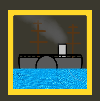
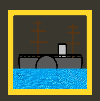
Added ship crews

Changed region(s): [[0.24, 0.1485, 0.66, 0.4752]]

diff --git a/modules/vehicles.py b/modules/vehicles.py
@@ -5,48 +5,76 @@ from . import main_loop_tools
 from .mobs import mob
 from .buttons import button
 
-
-class vehicle(mob):
-    def __init__(self, coordinates, grids, image_id, name, modes, global_manager):
+class vehicle(mob): #maybe reduce movement points of both vehicle and crew to the lower of the two
+    def __init__(self, coordinates, grids, image_dict, name, modes, crew, global_manager):
         self.contained_mobs = []
-        super().__init__(coordinates, grids, image_id, name, modes, global_manager)
+        self.vehicle_type = 'vehicle'
+        self.has_crew = False
+        super().__init__(coordinates, grids, image_dict['default'], name, modes, global_manager)
+        self.image_dict = image_dict #should have default and uncrewed
         self.is_vehicle = True
-        self.can_travel = True
+        self.crew = crew
+        if self.crew == 'none':
+            self.has_crew = False
+            self.set_image('uncrewed')
+        else:
+            self.has_crew = True
+            self.set_image('uncrewed')
 
+    def can_move(self, x_change, y_change):
+        if self.has_crew:
+            return(super().can_move(x_change, y_change))
+        else:
+            text_tools.print_to_screen("A " + self.vehicle_type + " can not move without crew.", self.global_manager)
+            return(False)
+    
     def update_tooltip(self):
         tooltip_list = ["Name: " + self.name]
+        if self.has_crew:
+            tooltip_list.append("Crew: " + self.crew.name)
+        else:
+            tooltip_list.append("Crew: none")
+            tooltip_list.append("A " + self.vehicle_type + " can not move or take passengers or cargo without crew")
+            
         if len(self.contained_mobs) > 0:
             tooltip_list.append("Passengers: ")
             for current_mob in self.contained_mobs:
                 tooltip_list.append('    ' + current_mob.name)
         else:
             tooltip_list.append("No passengers")
+            
         tooltip_list.append("Movement points: " + str(self.movement_points) + "/" + str(self.max_movement_points))
         self.set_tooltip(tooltip_list)
 
     def go_to_grid(self, new_grid, new_coordinates):
         super().go_to_grid(new_grid, new_coordinates)
-        for current_mob in self.contained_mobs:
+        for current_mob in (self.contained_mobs + [self.crew]): #make list of all mobs in vehicle
             current_mob.go_to_grid(new_grid, new_coordinates)
-            
             current_mob.in_vehicle = True
             current_mob.selected = False
             current_mob.hide_images()
-            #current_mob.in_group = True
-            #current_mob.join_group() #remove this
-            #current_mob.hide_images() #hides images self.worker.hide_images()#
-            #current_mob.in_vehicle = True
 
     def disembark(self):
         for current_mob in self.contained_mobs:
             current_mob.disembark_vehicle(self)
+        first_mob = self.contained_mobs[0]
         self.contained_mobs = []
+        self.global_manager.get('minimap_grid').calibrate(self.x, self.y)
+        first_mob.select()
+        #actor_utility.calibrate_actor_info_display(self.global_manager, self.global_manager.get('mob_info_display_list'), first_mob)
 
-class ship(vehicle):
-    def __init__(self, coordinates, grids, image_id, name, modes, global_manager):
-        super().__init__(coordinates, grids, image_id, name, modes, global_manager)
+class ship(vehicle): #prevent movement when there are mobs in this tile that are not in a ship
+    def __init__(self, coordinates, grids, image_dict, name, modes, crew, global_manager):
+        super().__init__(coordinates, grids, image_dict, name, modes, crew, global_manager)
+        self.vehicle_type = 'ship'
         self.can_swim = True
         self.can_walk = False
+
+    def can_travel(self):
+        if self.has_crew:
+            return(True)
+        else:
+            return(False)
 
 class embark_vehicle_button(button):
     def __init__(self, coordinates, width, height, color, keybind_id, modes, image_id, global_manager):
@@ -102,6 +130,66 @@ class disembark_vehicle_button(button):
                 if len(selected_list) == 1 and selected_list[0].is_vehicle and len(selected_list[0].contained_mobs) > 0:
                     selected_list[0].disembark()
                 else:
-                    text_tools.print_to_screen("You must have a vehicle with passengers selected to disembark passengers.", self.global_manager)
+                    text_tools.print_to_screen("You must select a vehicle with passengers to disembark passengers.", self.global_manager)
             else:
                 text_tools.print_to_screen("You are busy and can not disembark from a vehicle.", self.global_manager)
+
+class crew_vehicle_button(button):
+    def __init__(self, coordinates, width, height, color, keybind_id, modes, image_id, global_manager):
+        super().__init__(coordinates, width, height, color, 'crew', keybind_id, modes, image_id, global_manager)
+        
+    def can_show(self):
+        if actor_utility.can_crew_vehicle(self.global_manager):
+            return(super().can_show())
+        else:
+            return(False)
+
+    def on_click(self):
+        if self.can_show():
+            self.showing_outline = True
+            if main_loop_tools.action_possible(self.global_manager):    
+                selected_list = actor_utility.get_selected_list(self.global_manager)
+                if len(selected_list) == 2:
+                    vehicle = 'none'
+                    crew = 'none'
+                    if selected_list[0].is_vehicle and selected_list[1].is_worker:
+                        vehicle = selected_list[0]
+                        crew = selected_list[1]
+                    elif selected_list[1].is_vehicle and selected_list[0].is_worker:
+                        vehicle = selected_list[1]
+                        crew = selected_list[0]
+                    if (not (vehicle == 'none' or crew == 'none')) and (not vehicle.has_crew): #if vehicle and rider selected
+                        if vehicle.x == crew.x and vehicle.y == crew.y: #ensure that this doesn't work across grids
+                            crew.crew_vehicle(vehicle)
+                        else:
+                            text_tools.print_to_screen("You must select a worker in the same tile as an uncrewed vehicle to crew the vehicle.", self.global_manager)
+                    else:
+                        text_tools.print_to_screen("You must select a worker in the same tile as an uncrewed vehicle to crew the vehicle.", self.global_manager)
+                else:
+                    text_tools.print_to_screen("You must select a worker in the same tile as an uncrewed vehicle to crew the vehicle.", self.global_manager)
+            else:
+                text_tools.print_to_screen("You are busy and can not crew a vehicle.", self.global_manager)
+
+class uncrew_vehicle_button(button): #later only allow uncrewing in a port
+    def __init__(self, coordinates, width, height, color, keybind_id, modes, image_id, global_manager):
+        super().__init__(coordinates, width, height, color, 'uncrew', keybind_id, modes, image_id, global_manager)
+        
+    def can_show(self):
+        if actor_utility.can_uncrew_vehicle(self.global_manager):
+            return(super().can_show())
+        else:
+            return(False)
+
+    def on_click(self):
+        if self.can_show():
+            self.showing_outline = True
+            if main_loop_tools.action_possible(self.global_manager):         
+                selected_list = actor_utility.get_selected_list(self.global_manager)
+                if len(selected_list) == 1 and selected_list[0].is_vehicle and len(selected_list[0].contained_mobs) == 0 and selected_list[0].has_crew:
+                    vehicle = selected_list[0]
+                    crew = vehicle.crew
+                    crew.uncrew_vehicle(vehicle)
+                else:
+                    text_tools.print_to_screen("You must select a crewed vehicle with no passengers to remove the crew.", self.global_manager)
+            else:
+                text_tools.print_to_screen("You are busy and can not remove a vehicle's crew.", self.global_manager)

diff --git a/modules/mobs.py b/modules/mobs.py
@@ -25,6 +25,7 @@ class mob(actor):
         self.selected = False
         self.in_group = False
         self.in_vehicle = False
+        self.actor_type = 'mob'
         super().__init__(coordinates, grids, modes, global_manager)
         self.image_dict = {'default': image_id}
         self.selection_outline_color = 'bright green'
@@ -36,14 +37,19 @@ class mob(actor):
         self.can_explore = False #if can attempt to explore unexplored areas
         self.can_swim = False #if can enter water areas without ships in them
         self.can_walk = True #if can enter land areas
-        self.can_travel = False #if can go between Europe, Africa, etc.
         self.is_vehicle = False
+        self.is_worker = False
+        self.is_officer = False
+        self.is_group = False
         self.max_movement_points = 1
         self.movement_cost = 1
         self.reset_movement_points()
         self.update_tooltip()
         self.select()
         actor_utility.calibrate_actor_info_display(self.global_manager, self.global_manager.get('tile_info_display_list'), self.images[0].current_cell.tile)
+
+    def can_travel(self): #if can move between Europe, Africa, etc.
+        return(False) #different for subclasses
 
     def change_movement_points(self, change):
         self.movement_points += change
@@ -265,6 +271,7 @@ class mob(actor):
         self.selected = False
         self.hide_images()
         vehicle.contained_mobs.append(self)
+        actor_utility.calibrate_actor_info_display(self.global_manager, self.global_manager.get('mob_info_display_list'), vehicle)
 
     def disembark_vehicle(self, vehicle):
         self.in_vehicle = False
@@ -272,6 +279,8 @@ class mob(actor):
         self.y = vehicle.y
         for current_image in self.images:
             current_image.add_to_cell()
+        self.select()
+        actor_utility.calibrate_actor_info_display(self.global_manager, self.global_manager.get('tile_info_display_list'), self.images[0].current_cell.tile)
         #vehicle.contained_mobs = utility.remove_from_list(vehicle.contained_mobs, self)
 
 class worker(mob):
@@ -285,6 +294,7 @@ class worker(mob):
         '''
         super().__init__(coordinates, grids, image_id, name, modes, global_manager)
         global_manager.get('worker_list').append(self)
+        self.is_worker = True
 
     def can_show_tooltip(self):
         '''
@@ -297,6 +307,27 @@ class worker(mob):
             return(super().can_show_tooltip())
         else:
             return(False)
+
+    def crew_vehicle(self, vehicle):
+        self.in_vehicle = True
+        self.selected = False
+        self.hide_images()
+        vehicle.crew = self
+        vehicle.has_crew = True
+        vehicle.set_image('crewed')
+        actor_utility.calibrate_actor_info_display(self.global_manager, self.global_manager.get('mob_info_display_list'), vehicle)
+
+    def uncrew_vehicle(self, vehicle):
+        self.in_vehicle = False
+        self.x = vehicle.x
+        self.y = vehicle.y
+        for current_image in self.images:
+            current_image.add_to_cell()
+        vehicle.crew = 'none'
+        vehicle.has_crew = False
+        vehicle.set_image('uncrewed')
+        self.select()
+        actor_utility.calibrate_actor_info_display(self.global_manager, self.global_manager.get('tile_info_display_list'), self.images[0].current_cell.tile)
 
     def join_group(self):
         '''
@@ -347,6 +378,7 @@ class officer(mob):
         global_manager.get('officer_list').append(self)
         self.veteran = False
         self.veteran_icons = []
+        self.is_officer = True
         self.officer_type = 'default'
 
     def go_to_grid(self, new_grid, new_coordinates):
@@ -416,6 +448,8 @@ class officer(mob):
         self.update_veteran_icons() #not in superclass
         for current_image in self.images:
             current_image.add_to_cell()
+        self.select()
+        actor_utility.calibrate_actor_info_display(self.global_manager, self.global_manager.get('tile_info_display_list'), self.images[0].current_cell.tile)
 
     def remove(self):
         '''

diff --git a/modules/actor_utility.py b/modules/actor_utility.py
@@ -55,7 +55,8 @@ def can_split(global_manager):
 def can_embark_vehicle(global_manager): #if 1 vehicle and 1 non-vehicle selected
     selected_list = get_selected_list(global_manager)
     if len(selected_list) == 2:
-        if (selected_list[0].is_vehicle and not selected_list[1].is_vehicle) or ((not selected_list[0].is_vehicle) and selected_list[1].is_vehicle): #1 of each
+        if (selected_list[0].is_vehicle and selected_list[0].has_crew and not selected_list[1].is_vehicle) or ((not selected_list[0].is_vehicle) and selected_list[1].is_vehicle and selected_list[1].has_crew):
+            #1 of each, vehicle must have crew
             if(selected_list[0].x == selected_list[1].x and selected_list[0].y == selected_list[1].y and selected_list[0].grids[0] in selected_list[1].grids): #if on same coordinates on same grid
                 return(True) #later check to see if vehicle has room
     return(False)
@@ -67,6 +68,23 @@ def can_disembark_vehicle(global_manager): #if 1 vehicle with any contents is se
             if len(selected_list[0].contained_mobs) > 0: #or if any commodities carried
                 return(True)
     return(False)
+
+def can_crew_vehicle(global_manager):
+    selected_list = get_selected_list(global_manager)
+    if len(selected_list) == 2:
+        if (selected_list[0].is_vehicle and not selected_list[0].has_crew and selected_list[1].is_worker) or (selected_list[0].is_worker and selected_list[1].is_vehicle and not selected_list[1].has_crew):
+            #1 of each, vehicle must not have crew
+            if(selected_list[0].x == selected_list[1].x and selected_list[0].y == selected_list[1].y and selected_list[0].grids[0] in selected_list[1].grids): #if on same coordinates on same grid
+                return(True) #later check to see if vehicle has room
+    return(False)
+
+def can_uncrew_vehicle(global_manager):
+    selected_list = get_selected_list(global_manager)
+    if len(selected_list) == 1:
+        if selected_list[0].is_vehicle:
+            if selected_list[0].has_crew and len(selected_list[0].contained_mobs) == 0: #crew can only leave if has crew and no passengers
+                return(True)
+    return(False) 
     
 def get_selected_list(global_manager):
     '''

diff --git a/modules/buttons.py b/modules/buttons.py
@@ -81,8 +81,12 @@ class button():
             self.set_tooltip(["Merges a worker and an officer in the same tile to form a group with a type based on that of the officer.", "Requires that only an officer is selected in the same tile as a worker."])
         elif self.button_type == 'split':
             self.set_tooltip(["Splits a group into a separate worker and officer.", "Requires that only a group is selected."])
+        elif self.button_type == 'crew':
+            self.set_tooltip(["Orders a worker to crew a vehicle, allowing the vehicle to move and take passengers and cargo. Requires that only a worker and an uncrewed vehicle are selected."])
+        elif self.button_type == 'uncrew':
+            self.set_tooltip(["Orders a vehicle's crew to leave the vehicle, allowing the worker to act independently. Requires that only a crewed vehicle is selected."])
         elif self.button_type == 'embark':
-            self.set_tooltip(["Orders a unit to embark a vehicle in the same tile.", "Requires that only a unit and vehicle are selected."])
+            self.set_tooltip(["Orders a unit to embark a vehicle in the same tile.", "Requires that only a unit and vehicle are selected and that the vehicle is crewed."])
         elif self.button_type == 'disembark':
             self.set_tooltip(["Orders all units in a vehicle to disembark.", "Requires that a vehicle containing at least 1 unit is selected."]) 
         elif self.button_type == 'pick up commodity':
@@ -612,7 +616,7 @@ class switch_grid_button(button):
             return(False)
         elif selected_list[0].grids[0] == self.destination_grid: #do not show if mob is in destination grid already
             return(False)
-        elif not selected_list[0].can_travel: #only ships can move between grids
+        elif not selected_list[0].can_travel(): #only ships can move between grids
             return(False)
         else:
             return(super().can_show()) #if nothing preventing being shown, use conditions of superclass

diff --git a/modules/grids.py b/modules/grids.py
@@ -426,13 +426,15 @@ class mini_grid(grid):
                 current_cell.set_resource('none')
         self.Rect = pygame.Rect(self.origin_x, self.origin_y - self.pixel_height, self.pixel_width, self.pixel_height)
         for current_mob in self.global_manager.get('mob_list'):
-            if not ((current_mob in self.global_manager.get('officer_list') or current_mob in self.global_manager.get('worker_list')) and current_mob.in_group):
+            if not current_mob.in_group: #if not ((current_mob in self.global_manager.get('officer_list') or current_mob in self.global_manager.get('worker_list')) and current_mob.in_group):
                 for current_image in current_mob.images:
                     if current_image.grid == self:
                         current_image.add_to_cell()
         for current_officer in self.global_manager.get('officer_list'):
             if not current_officer.in_group:
                 current_officer.update_veteran_icons()
+        for current_group in self.global_manager.get('officer_list'):
+            current_group.update_veteran_icons()
 
     def get_main_grid_coordinates(self, mini_x, mini_y):
         '''

diff --git a/Scramble_for_Africa.py b/Scramble_for_Africa.py
@@ -278,6 +278,10 @@ embark_vehicle_button = vehicles.embark_vehicle_button(group_button_coordinates,
 
 disembark_vehicle_button = vehicles.disembark_vehicle_button(group_button_coordinates, group_button_width, group_button_height, 'blue', pygame.K_n, ['strategic', 'europe'], 'misc/disembark_vehicle_button.png', global_manager)
 
+crew_vehicle_button = vehicles.crew_vehicle_button(group_button_coordinates, group_button_width, group_button_height, 'blue', pygame.K_b, ['strategic', 'europe'], 'misc/embark_vehicle_button.png', global_manager)
+
+uncrew_vehicle_button = vehicles.uncrew_vehicle_button(group_button_coordinates, group_button_width, group_button_height, 'blue', pygame.K_v, ['strategic', 'europe'], 'misc/disembark_vehicle_button.png', global_manager)
+
 #mob background image
 mob_free_image_background = images.free_image('misc/mob_background.png', scaling.scale_coordinates(0, global_manager.get('default_display_height') - 245, global_manager), scaling.scale_width(125, global_manager),
                                               scaling.scale_height(125, global_manager), ['strategic', 'europe'], global_manager)

diff --git a/modules/actors.py b/modules/actors.py
@@ -30,6 +30,17 @@ class actor():
         if self.can_hold_commodities:
             self.inventory_setup()
 
+    def set_image(self, new_image):
+        for current_image in self.images:
+            current_image.set_image(new_image)
+        self.image_dict['default'] = self.image_dict[new_image]
+        if self.actor_type == 'mob':
+            if self.global_manager.get('displayed_mob') == self:
+                actor_utility.calibrate_actor_info_display(self.global_manager, self.global_manager.get('mob_info_display_list'), self)
+        elif self.actor_type == 'tile':
+            if self.global_manager.get('displayed_tile') == self:
+                actor_utility.calibrate_actor_info_display(self.global_manager, self.global_manager.get('tile_info_display_list'), self)
+
     def inventory_setup(self):
         '''
         Input:

diff --git a/modules/choice_notifications.py b/modules/choice_notifications.py
@@ -112,5 +112,6 @@ class recruitment_choice_button(choice_button):
             elif self.recruitment_type == 'European worker':
                 new_worker = mobs.worker((0, 0), [self.global_manager.get('europe_grid')], self.mob_image_id, 'European worker', ['strategic', 'europe'], self.global_manager)
             elif self.recruitment_type == 'ship':
-                new_ship = vehicles.ship((0, 0), [self.global_manager.get('europe_grid')], self.mob_image_id, 'ship', ['strategic', 'europe'], self.global_manager)
+                image_dict = {'default': self.mob_image_id, 'crewed': self.mob_image_id, 'uncrewed': 'mobs/ship/uncrewed.png'}
+                new_ship = vehicles.ship((0, 0), [self.global_manager.get('europe_grid')], image_dict, 'ship', ['strategic', 'europe'], 'none', self.global_manager)
         super().on_click()

diff --git a/modules/images.py b/modules/images.py
@@ -440,6 +440,11 @@ class veteran_icon_image(tile_image):
             If not outside of this image's grid area and this image's actor can be shown, draw this image 
         '''
         if self.actor.actor.images[0].can_show() and self.can_show():
+            if self.grid.is_mini_grid:
+                self.actor.x, self.actor.y = self.grid.get_mini_grid_coordinates(self.actor.actor.x, self.actor.actor.y)
+            else:
+                self.actor.x = self.actor.actor.x
+                self.actor.y = self.actor.actor.y
             self.go_to_cell((self.actor.x, self.actor.y))
             drawing_tools.display_image(self.image, self.x, self.y - self.height, self.global_manager)
 

diff --git a/modules/groups.py b/modules/groups.py
@@ -33,7 +33,7 @@ class group(mob):
         super().__init__(coordinates, grids, image_id, name, modes, global_manager)
         self.worker.join_group()
         self.officer.join_group()
-        
+        self.is_group = True
         for current_commodity in self.global_manager.get('commodity_types'): #merges individual inventory to group inventory and clears individual inventory
             self.change_inventory(current_commodity, self.worker.get_inventory(current_commodity))
             self.change_inventory(current_commodity, self.officer.get_inventory(current_commodity))

diff --git a/modules/tiles.py b/modules/tiles.py
@@ -19,6 +19,7 @@ class tile(actor): #to do: make terrain tiles a subclass
             show_terrain: boolean representing whether the tile should act as terrain
             global_manager: global_manager_template object used to manage a dictionary of shared variables
         '''
+        self.actor_type = 'tile'
         super().__init__(coordinates, [grid], modes, global_manager)
         self.set_name(name)
         self.global_manager.get('tile_list').append(self)
